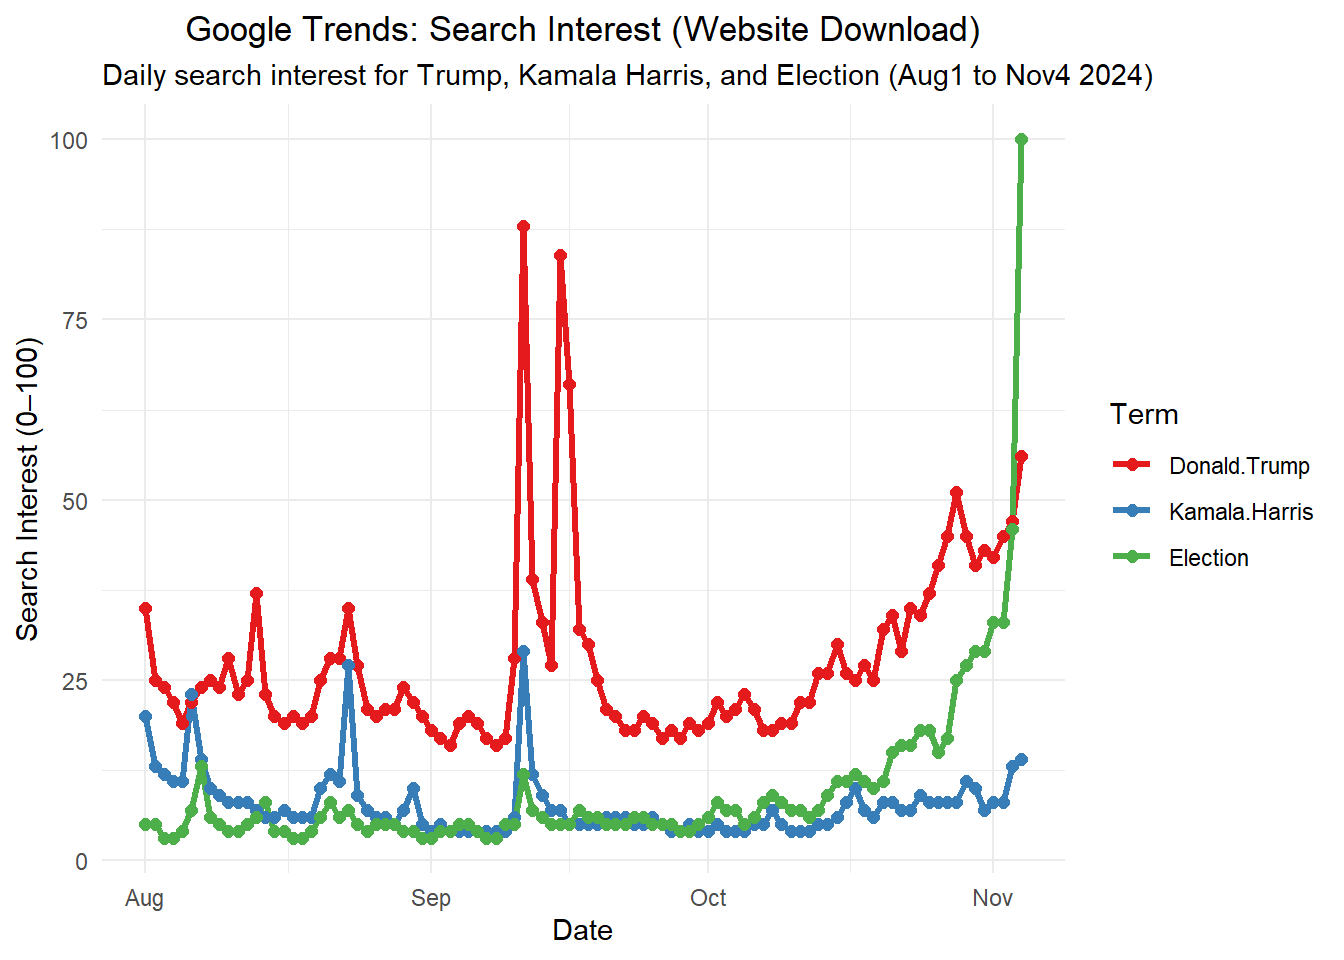
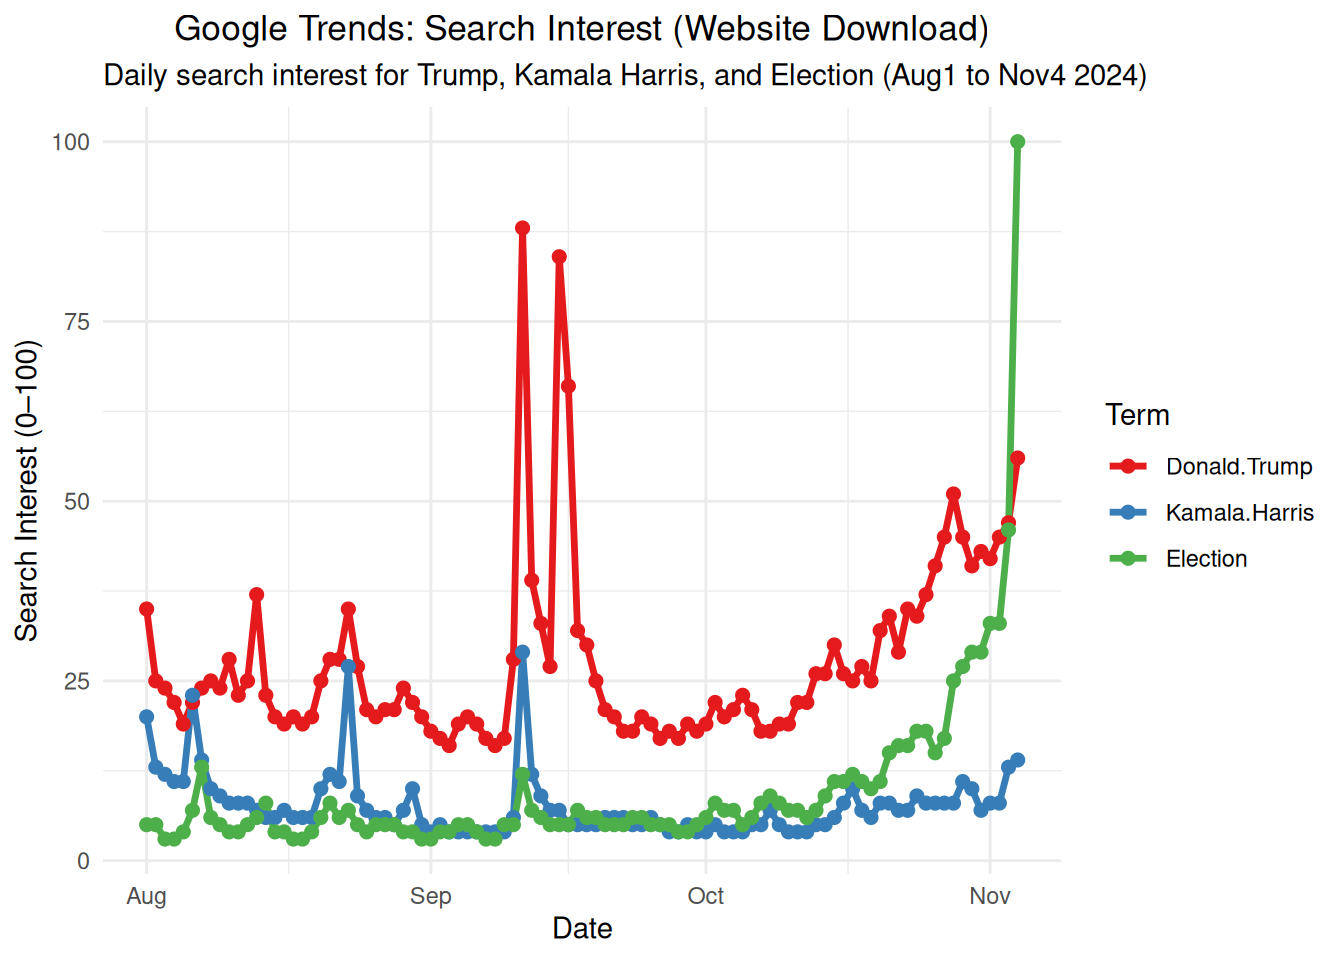
Built site for gh-pages

diff --git a/Assignment12.html b/Assignment12.html
@@ -20,6 +20,41 @@ ul.task-list li input[type="checkbox"] {
   margin: 0 0.8em 0.2em -1em; /* quarto-specific, see https://github.com/quarto-dev/quarto-cli/issues/4556 */ 
   vertical-align: middle;
 }
+/* CSS for syntax highlighting */
+html { -webkit-text-size-adjust: 100%; }
+pre > code.sourceCode { white-space: pre; position: relative; }
+pre > code.sourceCode > span { display: inline-block; line-height: 1.25; }
+pre > code.sourceCode > span:empty { height: 1.2em; }
+.sourceCode { overflow: visible; }
+code.sourceCode > span { color: inherit; text-decoration: inherit; }
+div.sourceCode { margin: 1em 0; }
+pre.sourceCode { margin: 0; }
+@media screen {
+div.sourceCode { overflow: auto; }
+}
+@media print {
+pre > code.sourceCode { white-space: pre-wrap; }
+pre > code.sourceCode > span { text-indent: -5em; padding-left: 5em; }
+}
+pre.numberSource code
+  { counter-reset: source-line 0; }
+pre.numberSource code > span
+  { position: relative; left: -4em; counter-increment: source-line; }
+pre.numberSource code > span > a:first-child::before
+  { content: counter(source-line);
+    position: relative; left: -1em; text-align: right; vertical-align: baseline;
+    border: none; display: inline-block;
+    -webkit-touch-callout: none; -webkit-user-select: none;
+    -khtml-user-select: none; -moz-user-select: none;
+    -ms-user-select: none; user-select: none;
+    padding: 0 4px; width: 4em;
+  }
+pre.numberSource { margin-left: 3em;  padding-left: 4px; }
+div.sourceCode
+  {   }
+@media screen {
+pre > code.sourceCode > span > a:first-child::before { text-decoration: underline; }
+}
 </style>
 
 
@@ -196,6 +231,66 @@ ul.task-list li input[type="checkbox"] {
 
 <section id="analysis-by-downloading-google-trends-data" class="level1">
 <h1>Analysis by Downloading Google Trends Data</h1>
+<div class="cell">
+<div class="code-copy-outer-scaffold"><div class="sourceCode cell-code" id="cb1"><pre class="sourceCode r code-with-copy"><code class="sourceCode r"><span id="cb1-1"><a href="#cb1-1" aria-hidden="true" tabindex="-1"></a><span class="cf">if</span> (<span class="sc">!</span><span class="fu">requireNamespace</span>(<span class="st">"reshape2"</span>, <span class="at">quietly =</span> <span class="cn">TRUE</span>)) {</span>
+<span id="cb1-2"><a href="#cb1-2" aria-hidden="true" tabindex="-1"></a>  <span class="fu">install.packages</span>(<span class="st">"reshape2"</span>)</span>
+<span id="cb1-3"><a href="#cb1-3" aria-hidden="true" tabindex="-1"></a>}</span></code></pre></div><button title="Copy to Clipboard" class="code-copy-button"><i class="bi"></i></button></div>
+<div class="cell-output cell-output-stdout">
+<pre><code># Downloading packages -------------------------------------------------------
+- Downloading reshape2 from CRAN ...            OK [119.8 Kb in 0.12s]
+- Downloading plyr from CRAN ...                OK [769.3 Kb in 0.19s]
+- Downloading Rcpp from CRAN ...                OK [2.1 Mb in 0.27s]
+Successfully downloaded 3 packages in 1.6 seconds.
+
+The following package(s) will be installed:
+- plyr     [1.8.9]
+- Rcpp     [1.1.0]
+- reshape2 [1.4.5]
+These packages will be installed into "~/work/SadmanShafiq117.github.io/SadmanShafiq117.github.io/renv/library/linux-ubuntu-noble/R-4.4/x86_64-pc-linux-gnu".
+
+# Installing packages --------------------------------------------------------
+- Installing Rcpp ...                           OK [installed binary and cached in 0.37s]
+- Installing plyr ...                           OK [installed binary and cached in 0.28s]
+- Installing reshape2 ...                       OK [installed binary and cached in 0.42s]
+Successfully installed 3 packages in 1.2 seconds.</code></pre>
+</div>
+<div class="code-copy-outer-scaffold"><div class="sourceCode cell-code" id="cb3"><pre class="sourceCode r code-with-copy"><code class="sourceCode r"><span id="cb3-1"><a href="#cb3-1" aria-hidden="true" tabindex="-1"></a><span class="fu">library</span>(ggplot2)</span>
+<span id="cb3-2"><a href="#cb3-2" aria-hidden="true" tabindex="-1"></a><span class="fu">library</span>(dplyr)</span>
+<span id="cb3-3"><a href="#cb3-3" aria-hidden="true" tabindex="-1"></a><span class="fu">library</span>(reshape2) </span>
+<span id="cb3-4"><a href="#cb3-4" aria-hidden="true" tabindex="-1"></a></span>
+<span id="cb3-5"><a href="#cb3-5" aria-hidden="true" tabindex="-1"></a></span>
+<span id="cb3-6"><a href="#cb3-6" aria-hidden="true" tabindex="-1"></a>website_data <span class="ot">&lt;-</span> <span class="fu">read.csv</span>(<span class="st">"google_trends_web.csv"</span>)</span>
+<span id="cb3-7"><a href="#cb3-7" aria-hidden="true" tabindex="-1"></a></span>
+<span id="cb3-8"><a href="#cb3-8" aria-hidden="true" tabindex="-1"></a><span class="co"># Day to Date</span></span>
+<span id="cb3-9"><a href="#cb3-9" aria-hidden="true" tabindex="-1"></a>website_data<span class="sc">$</span>Day <span class="ot">&lt;-</span> <span class="fu">as.Date</span>(website_data<span class="sc">$</span>Day, <span class="at">format =</span> <span class="st">"%m/%d/%Y"</span>)</span>
+<span id="cb3-10"><a href="#cb3-10" aria-hidden="true" tabindex="-1"></a></span>
+<span id="cb3-11"><a href="#cb3-11" aria-hidden="true" tabindex="-1"></a><span class="co"># Reshape to long format </span></span>
+<span id="cb3-12"><a href="#cb3-12" aria-hidden="true" tabindex="-1"></a>website_long <span class="ot">&lt;-</span> reshape2<span class="sc">::</span><span class="fu">melt</span>(website_data, <span class="at">id.vars =</span> <span class="st">"Day"</span>, </span>
+<span id="cb3-13"><a href="#cb3-13" aria-hidden="true" tabindex="-1"></a>                               <span class="at">variable.name =</span> <span class="st">"Term"</span>, </span>
+<span id="cb3-14"><a href="#cb3-14" aria-hidden="true" tabindex="-1"></a>                               <span class="at">value.name =</span> <span class="st">"Interest"</span>)</span>
+<span id="cb3-15"><a href="#cb3-15" aria-hidden="true" tabindex="-1"></a></span>
+<span id="cb3-16"><a href="#cb3-16" aria-hidden="true" tabindex="-1"></a><span class="co"># Plot</span></span>
+<span id="cb3-17"><a href="#cb3-17" aria-hidden="true" tabindex="-1"></a><span class="fu">ggplot</span>(website_long, <span class="fu">aes</span>(<span class="at">x =</span> Day, <span class="at">y =</span> Interest, <span class="at">color =</span> Term)) <span class="sc">+</span></span>
+<span id="cb3-18"><a href="#cb3-18" aria-hidden="true" tabindex="-1"></a>  <span class="fu">geom_line</span>(<span class="at">size =</span> <span class="fl">1.2</span>) <span class="sc">+</span></span>
+<span id="cb3-19"><a href="#cb3-19" aria-hidden="true" tabindex="-1"></a>  <span class="fu">geom_point</span>(<span class="at">size =</span> <span class="dv">2</span>) <span class="sc">+</span></span>
+<span id="cb3-20"><a href="#cb3-20" aria-hidden="true" tabindex="-1"></a>  <span class="fu">labs</span>(</span>
+<span id="cb3-21"><a href="#cb3-21" aria-hidden="true" tabindex="-1"></a>    <span class="at">title =</span> <span class="st">"Google Trends: Search Interest (Website Download)"</span>,</span>
+<span id="cb3-22"><a href="#cb3-22" aria-hidden="true" tabindex="-1"></a>    <span class="at">subtitle =</span> <span class="st">"Daily search interest for Trump, Kamala Harris, and Election (Aug1 to Nov4 2024)"</span>,</span>
+<span id="cb3-23"><a href="#cb3-23" aria-hidden="true" tabindex="-1"></a>    <span class="at">x =</span> <span class="st">"Date"</span>,</span>
+<span id="cb3-24"><a href="#cb3-24" aria-hidden="true" tabindex="-1"></a>    <span class="at">y =</span> <span class="st">"Search Interest (0–100)"</span></span>
+<span id="cb3-25"><a href="#cb3-25" aria-hidden="true" tabindex="-1"></a>  ) <span class="sc">+</span></span>
+<span id="cb3-26"><a href="#cb3-26" aria-hidden="true" tabindex="-1"></a>  <span class="fu">scale_color_brewer</span>(<span class="at">palette =</span> <span class="st">"Set1"</span>) <span class="sc">+</span></span>
+<span id="cb3-27"><a href="#cb3-27" aria-hidden="true" tabindex="-1"></a>  <span class="fu">theme_minimal</span>() <span class="sc">+</span></span>
+<span id="cb3-28"><a href="#cb3-28" aria-hidden="true" tabindex="-1"></a>  <span class="fu">theme</span>(<span class="at">plot.title =</span> <span class="fu">element_text</span>(<span class="at">hjust =</span> <span class="fl">0.5</span>))</span></code></pre></div><button title="Copy to Clipboard" class="code-copy-button"><i class="bi"></i></button></div>
+<div class="cell-output-display">
+<div>
+<figure class="figure">
+<p><img src="Assignment12_files/figure-html/unnamed-chunk-1-1.png" class="img-fluid figure-img" width="672"></p>
+</figure>
+</div>
+</div>
+</div>
+<p>The provided code utilizes three CSV files obtained from Google Trends. However, the datasets require preprocessing due to inconsistencies and formatting issues unsuitable for direct R analysis. Data cleaning steps were thus essential to enable effective visualization.</p>
 
 
 </section>
